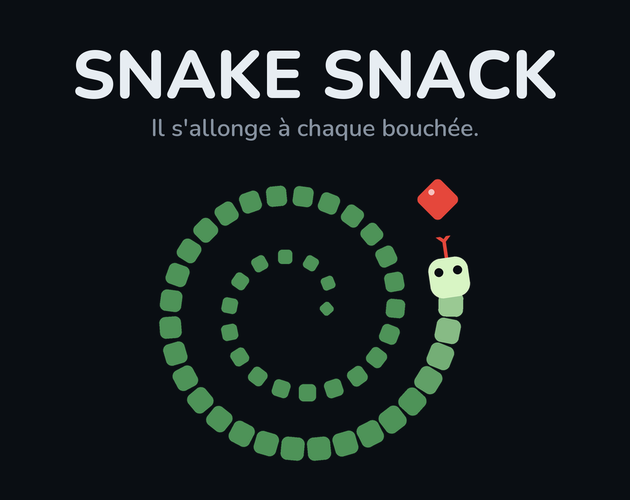
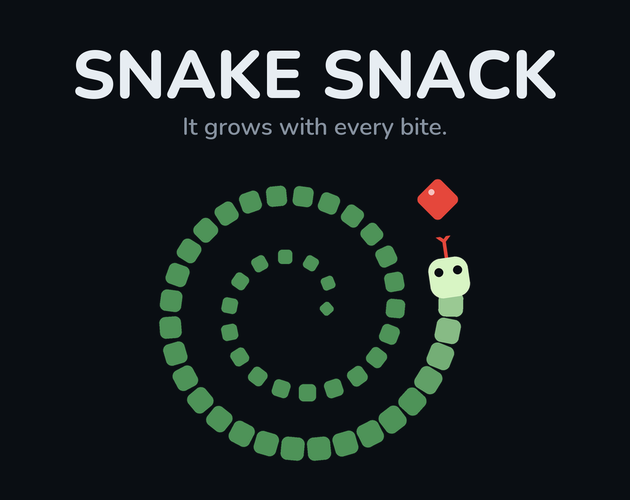
Rattrape la doc et la jaquette que la 0.3.0 rend fausses
La 0.3.0 est en ligne sur le canal html5 (build itch #1930788, tampon v0.3.0-d66e5a4). Trois
documents l'annonçaient encore mal :
- README.md et CLAUDE.md comptaient deux versions web et ne disaient pas que le jeu parle
  anglais ;
- docs/ITCH_STORE_PAGE.md disait la jaquette à regénérer « quand la langue change ». Elle a
  changé : `tools/generate_itch_cover.py` écrit désormais « It grows with every bite. », et le
  PNG datait du 2026-08-28, donc de la version française.

⚠ Deux gestes restent à faire à la main dans le tableau de bord itch, et le fichier les porte
maintenant explicitement :
- **remplacer la jaquette** : le nouveau PNG est sur le disque, butler ne pousse que des builds ;
- **refaire les trois captures**, qui montrent l'interface française ET un serpent sans visage.
  La case correspondante repasse donc de [x] à [ ] : elles étaient à jour, elles ne le sont plus.

La scène régénérée par le build a été écartée (`SceneBuilder.cs` inchangé).

Claude-Session: https://claude.ai/code/session_01KXB55qM2EUm36oLxAVxHCG

Changed region(s): [[0.2413, 0.24, 0.754, 0.3]]

diff --git a/docs/ITCH_STORE_PAGE.md b/docs/ITCH_STORE_PAGE.md
@@ -81,11 +81,13 @@ To check by hand after every publish; they were wrong for several versions on an
 - [ ] **Classification** tab: genre, tags, **player count**, multiplayer mode
 - [x] **Cover 630 × 500** — the only image seen by visitors who do not open the page.
       Produced by `tools/generate_itch_cover.py`. ⚠ It carries the tagline as text: it must be
-      regenerated when the page's language changes.
-- [x] **Screenshots** — three, taken IN the browser on the itch page itself.
+      regenerated when the page's language changes. Regenerated in English on 2026-08-30
+      ("It grows with every bite.") — ⚠ **the new file is on disk, not yet uploaded**: replacing it
+      goes through the dashboard.
+- [ ] **Screenshots** — three, taken IN the browser on the itch page itself.
       ⚠ The in-game ones show the game's rendering: **to be regenerated at every visible change**,
-      otherwise the page announces a snake the game no longer shows. They currently show the French
-      interface and a snake with no face.
+      otherwise the page announces a snake the game no longer shows. Those online still show the
+      French interface and a snake with no face: they predate 0.3.0 and are now wrong twice over.
 
 ⚠ **Visibility**: the page has been in **Draft** since it was created (2026-08-28). Nothing is public
 until the author clicks "Publish" themselves.

diff --git a/README.md b/README.md
@@ -9,9 +9,9 @@ Unity 6000.5.6f1 · C# · URP 2D · Input System · published on
 best, pause, death, refusal of the U-turn — the game opens on a **main menu** navigable with the
 keyboard as well as the mouse, and **the feel is finished**: the snake glides, squashes when it
 swallows, leans into its turns and looks where it is going; the apple pops in, the cell that kills you
-lights up before the end screen. Two web versions have shipped (0.1.0, 0.2.0), the itch page stays
-**in Draft**. Remaining before making it public: the graphical assets, the sound effects and the
-music.
+lights up before the end screen. The whole game — interface, code and documentation — is in English.
+Three web versions have shipped (0.1.0, 0.2.0, 0.3.0), the itch page stays **in Draft**. Remaining
+before making it public: the graphical assets, the sound effects and the music.
 
 > This repository was born from the
 > **[unity-game-template-with-claude](https://github.com/drangoht/unity-game-template-with-claude)**

diff --git a/CLAUDE.md b/CLAUDE.md
@@ -28,7 +28,7 @@ same commit.** That file is what keeps a bug from coming back six months later.
 
 **Phase 1 — make the game presentable** (since 2026-08-28)
 
-Mechanics, menu, GDD, itch page and two web builds (0.1.0, 0.2.0) are done. ⚠ The itch page exists but
+Mechanics, menu, GDD, itch page and three web builds (0.1.0 → 0.3.0) are done. ⚠ The itch page exists but
 stays in **Draft**: only the author makes it public, and he set the work below as his condition.
 
 - [x] The whole **juice** (`docs/art/juicy.md` P1→P3) and the head's **face**
